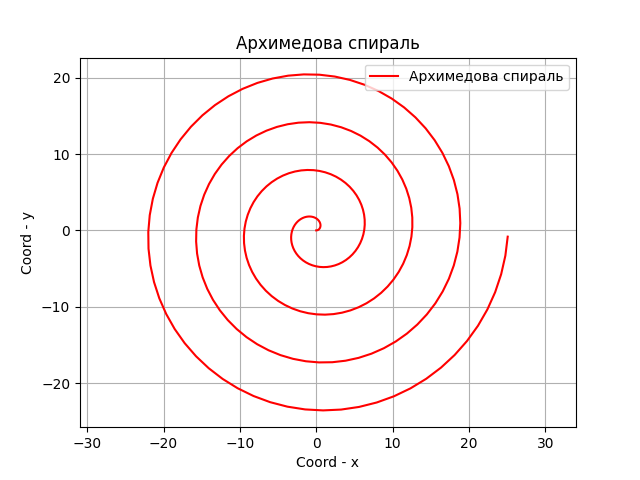
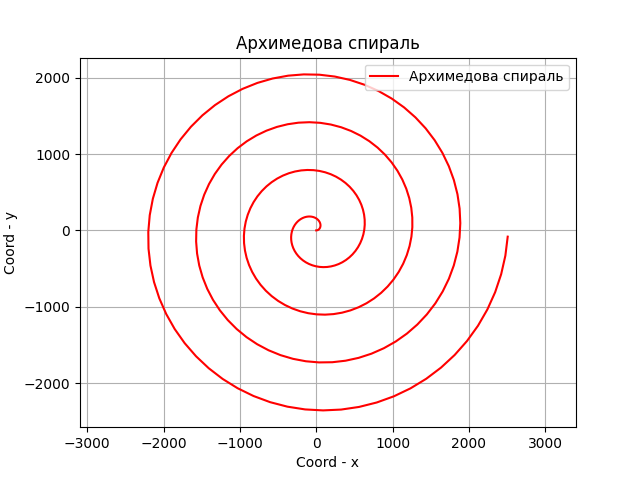
derfgted

diff --git a/task_4_rose.py b/task_4_rose.py
@@ -1,20 +1,19 @@
 import matplotlib.pyplot as plt
 import numpy as np
-
 def spiral(k):
     phi = np.arange(0, 8*(np.pi), 0.1)
-    r = k * phi
+    r = np.sin(k*phi)
     x = r * np.cos(phi)
     y = r * np.sin(phi)
 
-    plt.plot(x, y, color="r", label="Архимедова спираль")
+    plt.plot(x, y, label="Роза")
     plt.xlabel("Coord - x")
     plt.ylabel("Coord - y")
-    plt.title("Архимедова спираль")
+    plt.title("Роза")
     plt.legend()
     plt.grid()
     plt.axis('equal')
     
-    plt.savefig('fig_10.png')
+    plt.savefig('fig_9.png')
 
-spiral(float(input("Введите значение k: ")))
+spiral(8)

diff --git a/task_4_arhimedova_spiral.py b/task_4_arhimedova_spiral.py
@@ -1,20 +1,19 @@
 import matplotlib.pyplot as plt
 import numpy as np
-
+k = 100
 def spiral(k):
     phi = np.arange(0, 8*(np.pi), 0.1)
-    r = np.sin(k*phi)
+    r = k * phi
     x = r * np.cos(phi)
     y = r * np.sin(phi)
 
-    plt.plot(x, y, label="Роза")
+    plt.plot(x, y, color="r", label="Архимедова спираль")
     plt.xlabel("Coord - x")
     plt.ylabel("Coord - y")
-    plt.title("Роза")
+    plt.title("Архимедова спираль")
     plt.legend()
     plt.grid()
     plt.axis('equal')
     
-    plt.savefig('fig_9.png')
+    plt.savefig('fig_10.png')
 
-spiral(float(input("Введите значение k: ")))

diff --git a/task_2.py b/task_2.py
@@ -1,0 +1,22 @@
+import matplotlib.pyplot as plt 
+import numpy as np 
+N = float()
+def hyperbola_graph(min, max, N):
+    x  = np.linspace(0, max, N)
+    y = 1/x
+    plt.plot(x, y, label="hyperbola", color="b")
+    x = np.linspace(0, max, N)
+
+    x = np.linspace(min, 0, N)
+    y = 1/x 
+    plt.plot(x, y, color='y')
+
+    plt.xlabel("Coord  x")
+    plt.ylabel("Coord  y")
+    plt.title("hyperbola graph")
+    plt.legend()
+    plt.grid()
+
+    plt.savefig('fig_6.png')
+
+hyperbola_graph(-10,10,100)

diff --git a/task_4_rod.py b/task_4_rod.py
@@ -1,6 +1,6 @@
 import matplotlib.pyplot as plt
 import numpy as np
-
+k = 10
 def spiral(k):
     phi = np.arange(0.01, 8*(np.pi), 0.1)
     r = k / np.sqrt(phi)
@@ -17,4 +17,3 @@ def spiral(k):
     
     plt.savefig('fig_11.png')
 
-spiral(float(input("Введите значение k: ")))

diff --git a/task_4.log_spiral.py b/task_4.log_spiral.py
@@ -15,6 +15,6 @@ def log(b):
     plt.grid()
     plt.axis('equal')
     
-    plt.savefig('fig_task8.png')
+    plt.savefig('fig_8.png')
 
-log(float(input("Введите значение b: ")))
+log(0.5)
